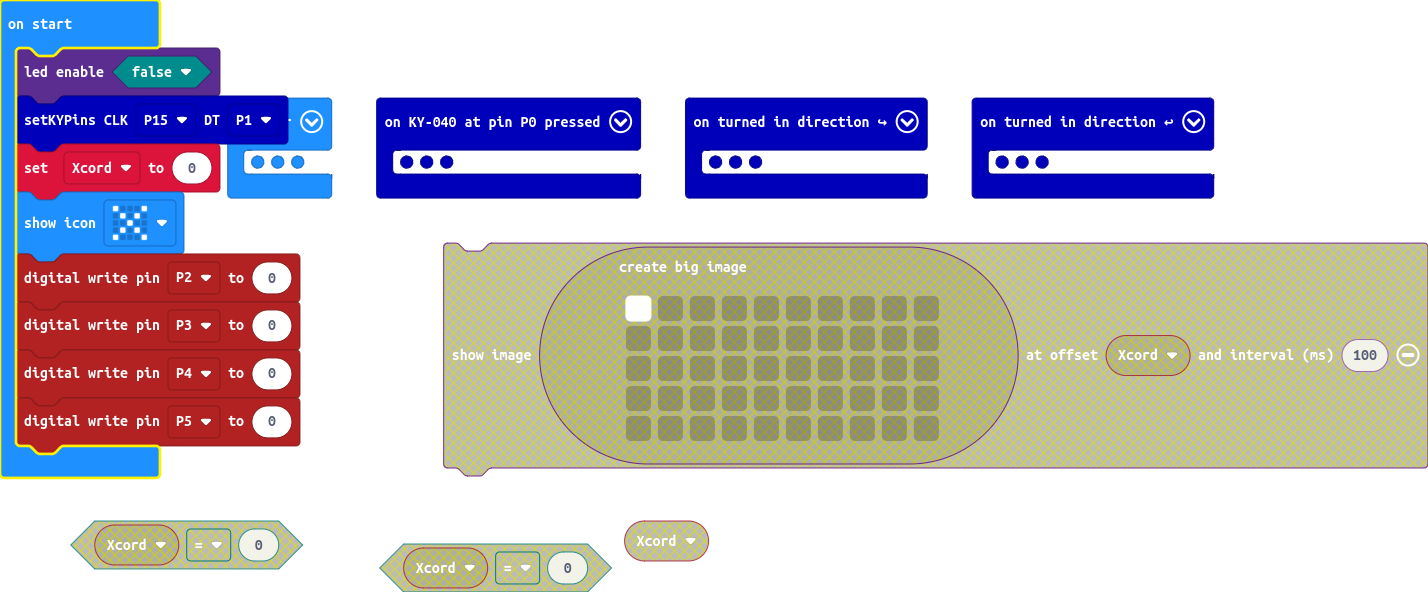
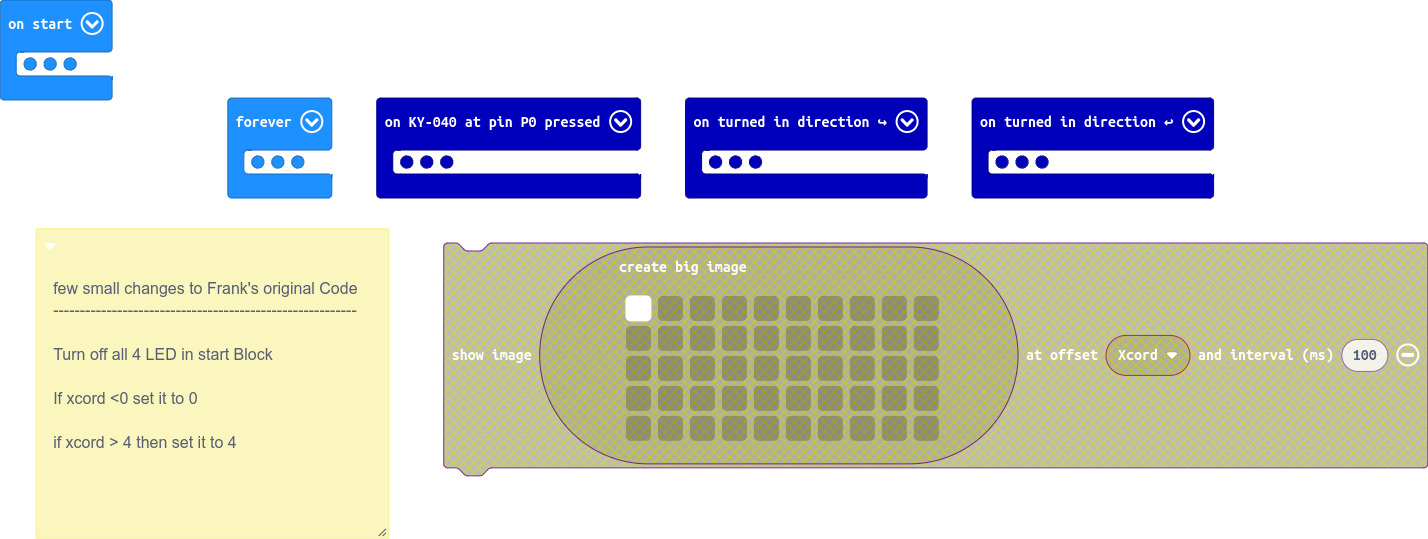
added comment describing changes to Frank's original code

diff --git a/main.ts b/main.ts
@@ -1,3 +1,14 @@
+/**
+ * few small changes to Frank's original Code
+ * 
+ * ---------------------------------------------------------
+ * 
+ * Turn off all 4 LED in start Block
+ * 
+ * If xcord <0 set it to 0
+ * 
+ * if xcord > 4 then set it to 4
+ */
 KY040.OnPinPressed(DigitalPin.P0, function () {
     Xcord = 0
     serial.writeValue("Xcord", Xcord)
